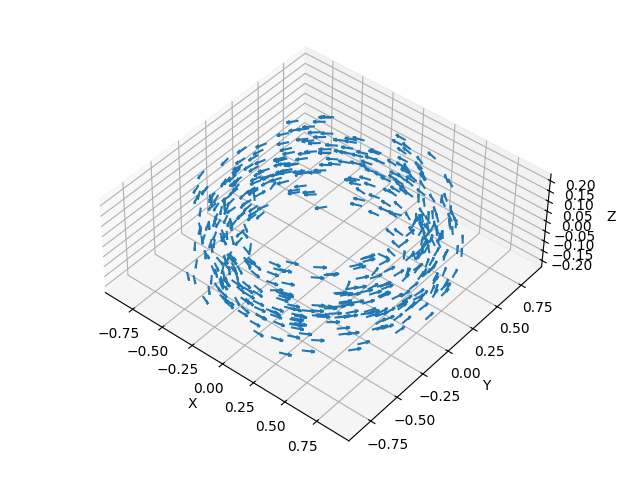
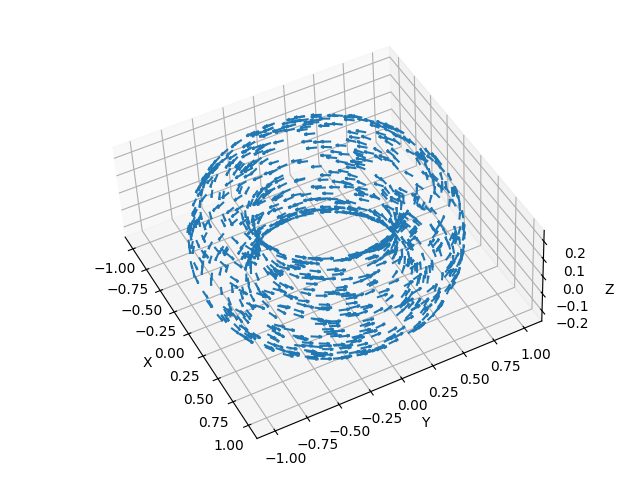
tf coil structure refined -- better model

Changed region(s): [[0.1562, 0.0938, 0.9688, 0.9688], [0.8125, 0.7188, 0.875, 0.75]]

diff --git a/aditya-u_fields/plasma_current.py b/aditya-u_fields/plasma_current.py
@@ -4,6 +4,7 @@ from scipy.spatial.transform import Rotation as R
 import matplotlib.pyplot as plt
 
 # Forming the toroidal field coils first
+np.random.seed(42)
 
 def form_rectangular_coil(position, orientation, width, height, thickness, turns, current):
     
@@ -23,6 +24,17 @@ def form_rectangular_coil(position, orientation, width, height, thickness, turns
     coil.rotate(orientation)
 
     return coil
+
+def form_coil_with_c_sections(num_sections, turns_per_section, position, orientation, width, height, thickness, current):
+    '''
+    Okay here I'm gonna define a function that forms a tf coil with c-sections like what's mentioned on the available papers online about how tf-coils are manufactured.
+    There's gonna be a certain number of conducting filaments per section
+    '''
+    coils = []
+    for i in range(num_sections):
+        num = i*0.01/num_sections
+        coils.extend(form_rectangular_coil(position, orientation, width-(width*num), height-(height*num), thickness, turns_per_section, current))
+    return magpy.Collection(*coils, override_parent=True)
 
 def generate_points_minor_axis(major_radius, num_points):
     # Generate points on a cirlce passing through the center of all the tf coils inside the chamber
@@ -52,21 +64,35 @@ def generate_points_everywhere(major_radius, num_points):
     z_obs = np.random.uniform(-major_radius, major_radius, num_points)
     return x_obs, y_obs, z_obs
 
+def generate_points_inc_chamber_surface(major_radius, minor_radius, num_points):
+    # Generate points inside the toroidal chamber
+    phi = np.random.uniform(0, 2 * np.pi, num_points)  # Uniformly distributed along toroidal direction
+    theta = np.random.uniform(0, 2 * np.pi, num_points)  # Uniformly distributed in poloidal direction
+    r = np.random.uniform(minor_radius, minor_radius, num_points)  # Avoid coil boundary
+
+    # Compute Cartesian coordinates for points in vacuum
+    x_obs = (major_radius + r * np.cos(theta)) * np.cos(phi)
+    y_obs = (major_radius + r * np.cos(theta)) * np.sin(phi)
+    z_obs = r * np.sin(theta)
+
+    return x_obs, y_obs, z_obs
+
 # Parameters
 num_coils = 20
 major_radius = 0.75
 minor_radius = 0.25
-coil_current_tf_coils = 18750 # 18.75kA per loop --> 150kA for 8 loops
-coil_current_pf_coils = 1e4 # 10kA per loop
-coil_size = [0.5, 0.7] # --> [width, height]
-turns_per_coil = 8
-coil_thickness = 0.08
-num_plasma_current_coils = 8
+coil_current = 4166 # 4.166kA per loop --> 50kA for 12 loops
+coil_size = [1.03, 1.26] # --> [width, height]
+turns_per_section = 6
+coil_thickness = 0.083
+num_sections = 2
 num_points = 1000
+num_plasma_current_coils = 8
+coil_current_pf_coils = 1e4 # 10kA per loop
 
 tf_coils = []
 for i in range(num_coils):
-    angle = 2 * np.pi * i / num_coils  # Angular position of the coil
+    angle = 2 * np.pi * i / num_coils  # Angular position of the filament
     x = major_radius * np.cos(angle)
     y = major_radius * np.sin(angle)
     z = 0  # All coils lie in the same plane initially(for simplicity)
@@ -74,7 +100,7 @@ for i in range(num_coils):
     unit_vector = position / np.linalg.norm(position)
     rotation_vector = np.pi/2 * unit_vector
     rotation = R.from_rotvec(rotation_vector)
-    tf_coils.append(form_rectangular_coil(position=position, orientation=rotation, width=coil_size[0], height=coil_size[1], thickness=coil_thickness, turns=turns_per_coil, current=coil_current_tf_coils))
+    tf_coils.append(form_coil_with_c_sections(num_sections, turns_per_section, position, rotation, coil_size[0], coil_size[1], coil_thickness, coil_current))
 
 toroidal_field_coils = magpy.Collection(*tf_coils)
 
@@ -82,8 +108,8 @@ toroidal_field_coils = magpy.Collection(*tf_coils)
 # Forming the plasma current coils
 plasma_current_coils = []
 for i in range(int(num_plasma_current_coils/2)):
-    position1  = (0, 0, i*0.01)
-    position2 = (0, 0, -i*0.01)
+    position1  = (0, 0, i*0.05)
+    position2 = (0, 0, -i*0.05)
     orientation = 0
     plasma_current_coils.append(magpy.current.Circle(position=position1, diameter=1.5, current=coil_current_pf_coils))
     plasma_current_coils.append(magpy.current.Circle(position=position2, diameter=1.5, current=coil_current_pf_coils))
@@ -114,9 +140,12 @@ plt.show()
 
 # calculating the R dependence of the field
 R = np.sqrt(x_obs**2 + y_obs**2)
+sorted_indices = np.argsort(R)
+R = R[sorted_indices]
+field = field[sorted_indices]
 fig1 = plt.figure(figsize=(12, 8))
 ax1 = fig1.add_subplot(111)
-ax1.scatter(R, np.linalg.norm(field, axis=1))
+ax1.plot(R, np.linalg.norm(field, axis=1))
 ax1.set_xlabel('R')
 ax1.set_ylabel('B(T)')
 plt.show()

diff --git a/aditya-u_fields/tf_coils.py b/aditya-u_fields/tf_coils.py
@@ -3,6 +3,8 @@ import numpy as np
 from scipy.spatial.transform import Rotation as R
 import matplotlib.pyplot as plt
 
+np.random.seed(42)
+
 def form_rectangular_coil(position, orientation, width, height, thickness, turns, current):
     
     loop = magpy.current.Polyline(vertices=[(-width/2, height/2, 0), (width/2, height/2, 0), (width/2, -height/2, 0), (-width/2, -height/2, 0), (-width/2, height/2, 0)], current=current)
@@ -24,12 +26,12 @@ def form_rectangular_coil(position, orientation, width, height, thickness, turns
 
 def form_coil_with_c_sections(num_sections, turns_per_section, position, orientation, width, height, thickness, current):
     '''
-    Okay here I'm gonna define a function that forms a tf coil with c-sections like what's mentioned on the available papers online about how tf-coils are manufactured.
-    There's gonna be a certain number of conducting filaments per section
+    Okay here I'm gonna define a function that forms a tf coil with sections like what's mentioned on the available papers online about how tf-coils are manufactured.
+    There's gonna be a certain number of conducting filaments per section. And sections will be rectangular in shape but with decreasing width and height(depending on the total number of sections).
     '''
     coils = []
     for i in range(num_sections):
-        num = i*0.01/num_sections
+        num = i*0.08/num_sections
         coils.extend(form_rectangular_coil(position, orientation, width-(width*num), height-(height*num), thickness, turns_per_section, current))
     return magpy.Collection(*coils, override_parent=True)
         
@@ -38,7 +40,7 @@ def form_coil_with_c_sections(num_sections, turns_per_section, position, orienta
 num_coils = 20
 major_radius = 0.75
 minor_radius = 0.25
-coil_current = 4166 # 4.166kA per loop --> 50kA for 12 loops
+coil_current = 12500 # 4.166kA per loop --> 50kA for 12 loops
 coil_size = [1.03, 1.26] # --> [width, height]
 turns_per_section = 6
 coil_thickness = 0.083
@@ -65,7 +67,7 @@ magpy.show(toroidal_field_coils, animation=True)
 num_points = 500  # Number of observation points
 phi = np.random.uniform(0, 2 * np.pi, num_points)  # Uniformly distributed along toroidal direction
 theta = np.random.uniform(0, 2 * np.pi, num_points)  # Uniformly distributed in poloidal direction
-r = np.random.uniform(minor_radius*0.1,   minor_radius*0.9, num_points)  # Avoid coil boundary
+r = np.random.uniform(minor_radius*0.1, minor_radius*0.9, num_points)  # Avoid coil boundary
 
 # Compute Cartesian coordinates for points in vacuum
 x_obs = (major_radius*0.9 + r * np.cos(theta)) * np.cos(phi)

diff --git a/aditya-u_fields/tf_pf_coils.py b/aditya-u_fields/tf_pf_coils.py
@@ -24,6 +24,17 @@ def form_rectangular_coil(position, orientation, width, height, thickness, turns
 
     return coil
 
+def form_coil_with_c_sections(num_sections, turns_per_section, position, orientation, width, height, thickness, current):
+    '''
+    Okay here I'm gonna define a function that forms a tf coil with c-sections like what's mentioned on the available papers online about how tf-coils are manufactured.
+    There's gonna be a certain number of conducting filaments per section
+    '''
+    coils = []
+    for i in range(num_sections):
+        num = i*0.01/num_sections
+        coils.extend(form_rectangular_coil(position, orientation, width-(width*num), height-(height*num), thickness, turns_per_section, current))
+    return magpy.Collection(*coils, override_parent=True)
+
 def generate_points_minor_axis(major_radius, num_points):
     # Generate points on a cirlce passing through the center of all the tf coils inside the chamber
     theta = np.linspace(0, 2*np.pi, num_points)
@@ -49,15 +60,15 @@ def generate_points_in_chamber(major_radius, minor_radius, num_points):
 num_coils = 20
 major_radius = 0.75
 minor_radius = 0.25
-coil_current_tf_coils = 18750 # 18.75kA per loop --> 150kA for 8 loops
-coil_current_pf_coils = 1e4 # 10kA per loop
-coil_size = [0.5, 0.7] # --> [width, height]
-turns_per_coil = 8
-coil_thickness = 0.08
+coil_current = 4166 # 4.166kA per loop --> 50kA for 12 loops
+coil_size = [1.03, 1.26] # --> [width, height]
+turns_per_section = 6
+coil_thickness = 0.083
+num_sections = 2
 
 tf_coils = []
 for i in range(num_coils):
-    angle = 2 * np.pi * i / num_coils  # Angular position of the coil
+    angle = 2 * np.pi * i / num_coils  # Angular position of the filament
     x = major_radius * np.cos(angle)
     y = major_radius * np.sin(angle)
     z = 0  # All coils lie in the same plane initially(for simplicity)
@@ -65,7 +76,7 @@ for i in range(num_coils):
     unit_vector = position / np.linalg.norm(position)
     rotation_vector = np.pi/2 * unit_vector
     rotation = R.from_rotvec(rotation_vector)
-    tf_coils.append(form_rectangular_coil(position=position, orientation=rotation, width=coil_size[0], height=coil_size[1], thickness=coil_thickness, turns=turns_per_coil, current=coil_current_tf_coils))
+    tf_coils.append(form_coil_with_c_sections(num_sections, turns_per_section, position, rotation, coil_size[0], coil_size[1], coil_thickness, coil_current))
 
 toroidal_field_coils = magpy.Collection(*tf_coils)
 
